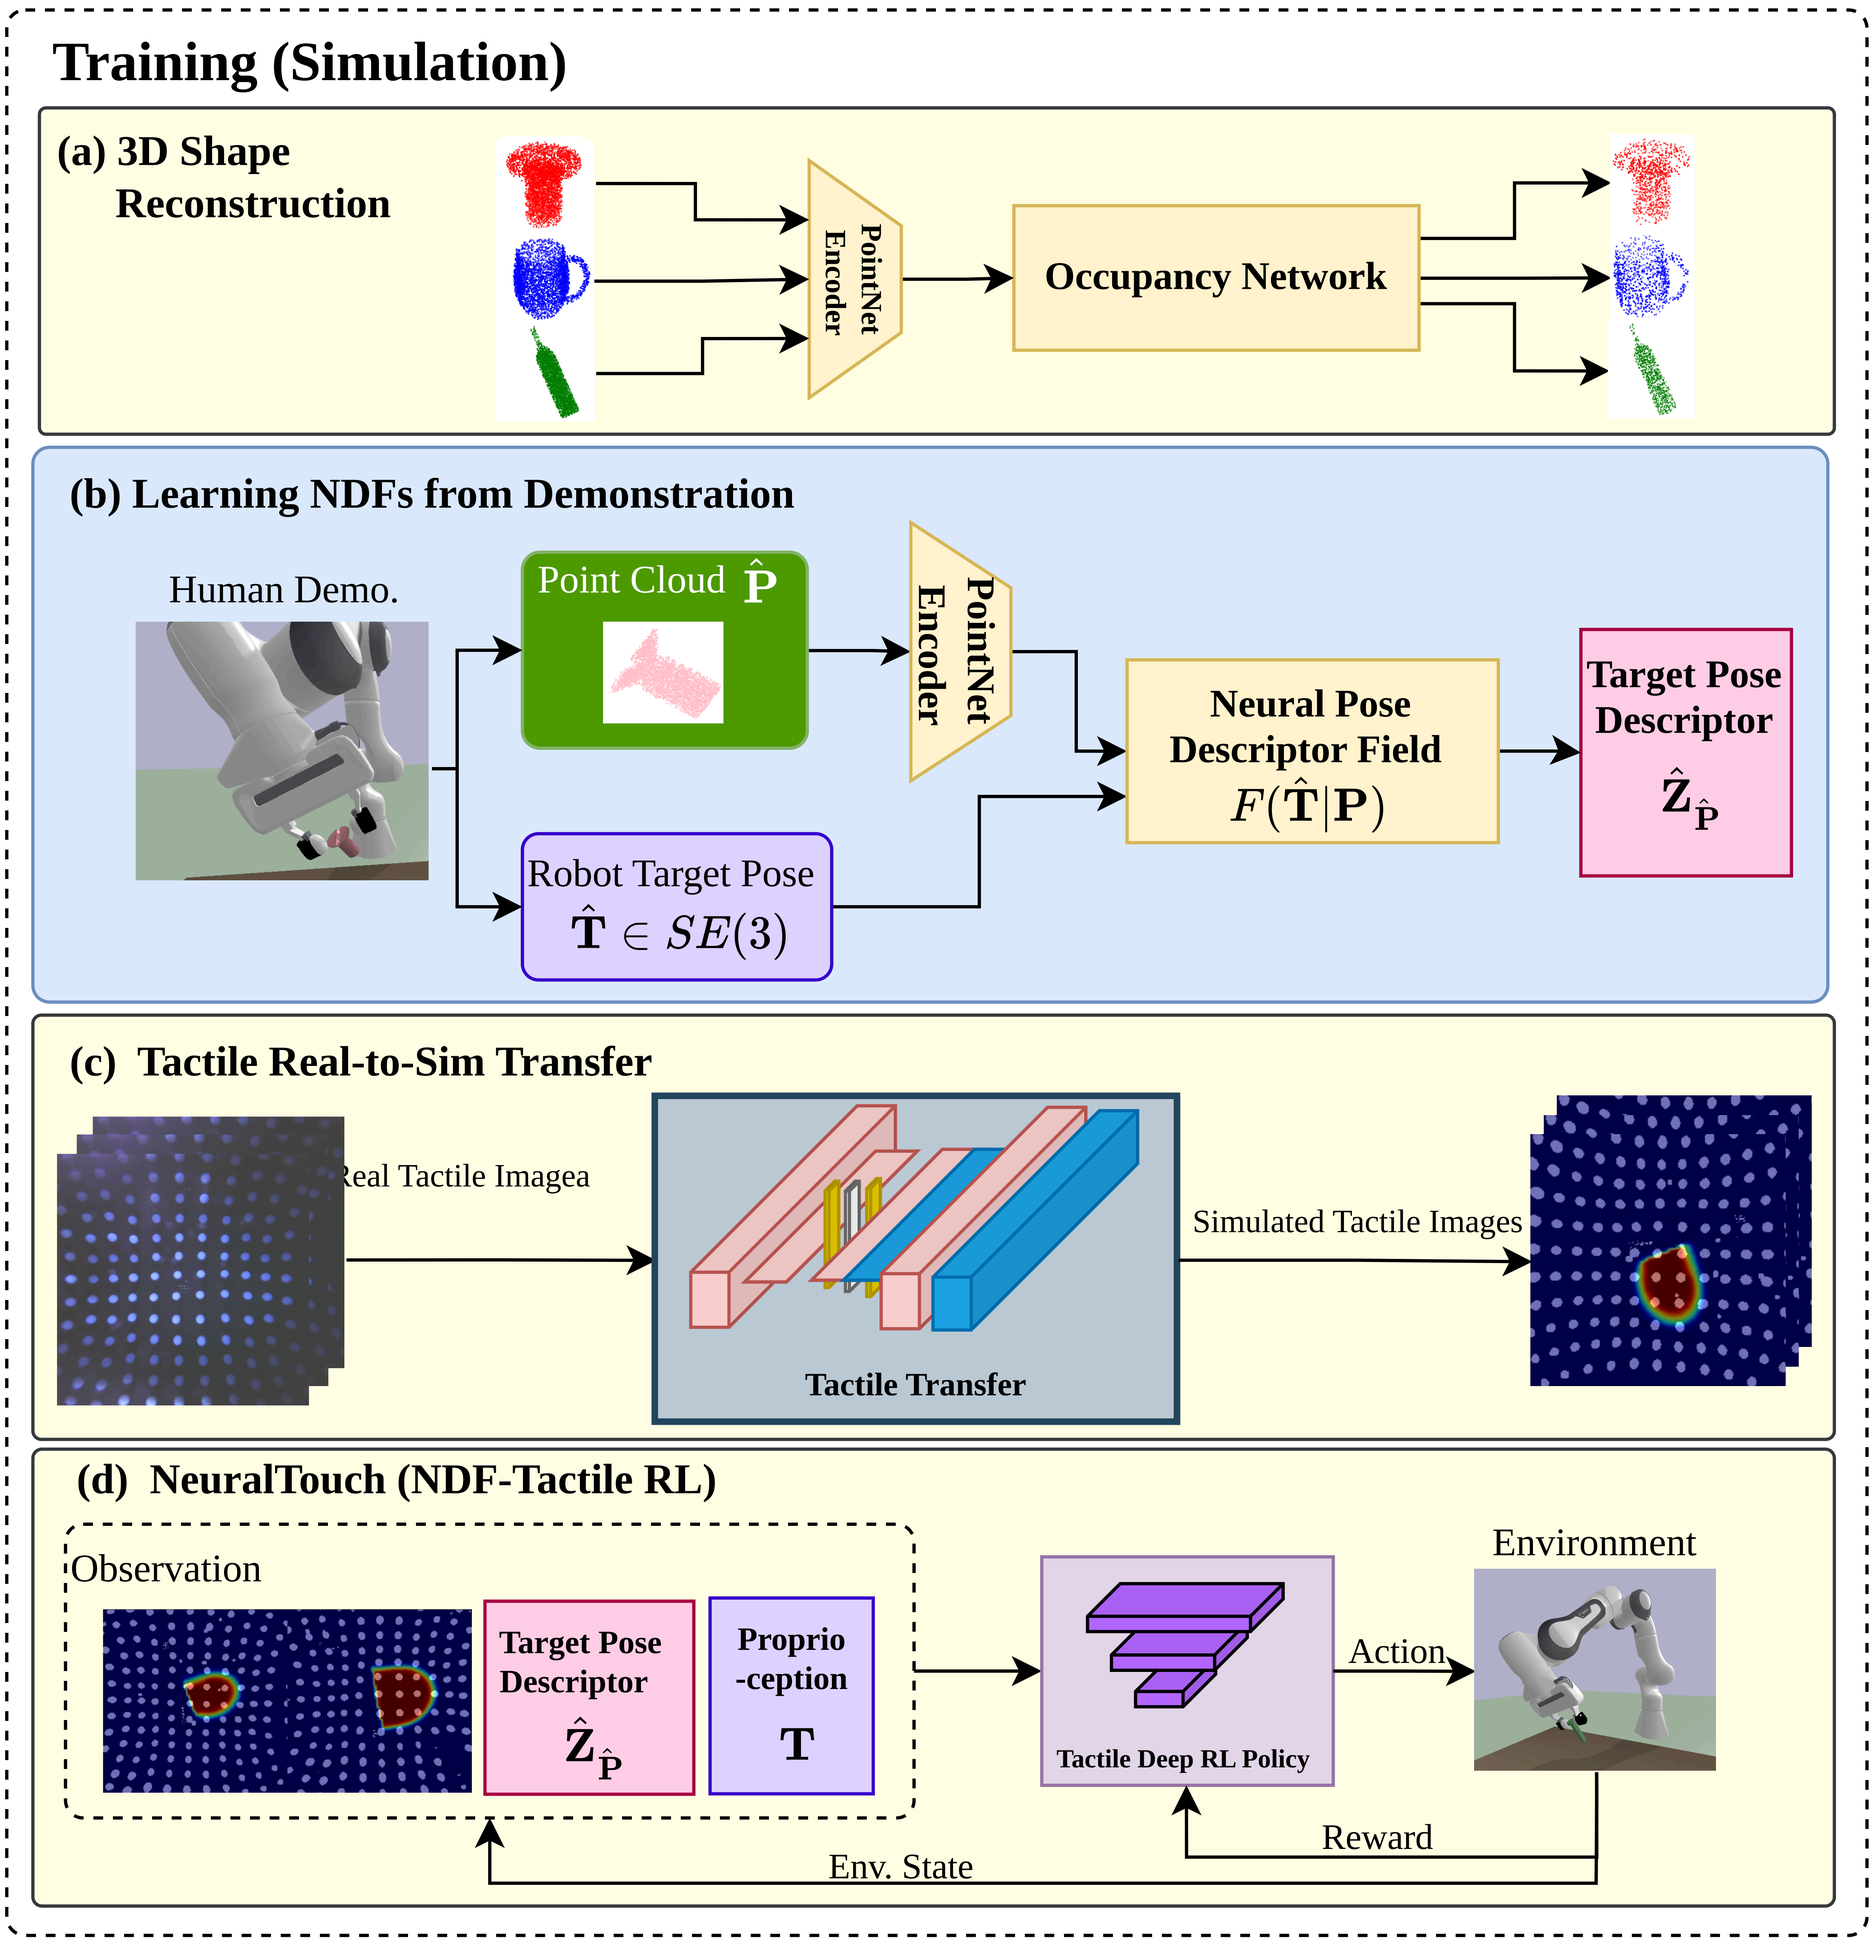
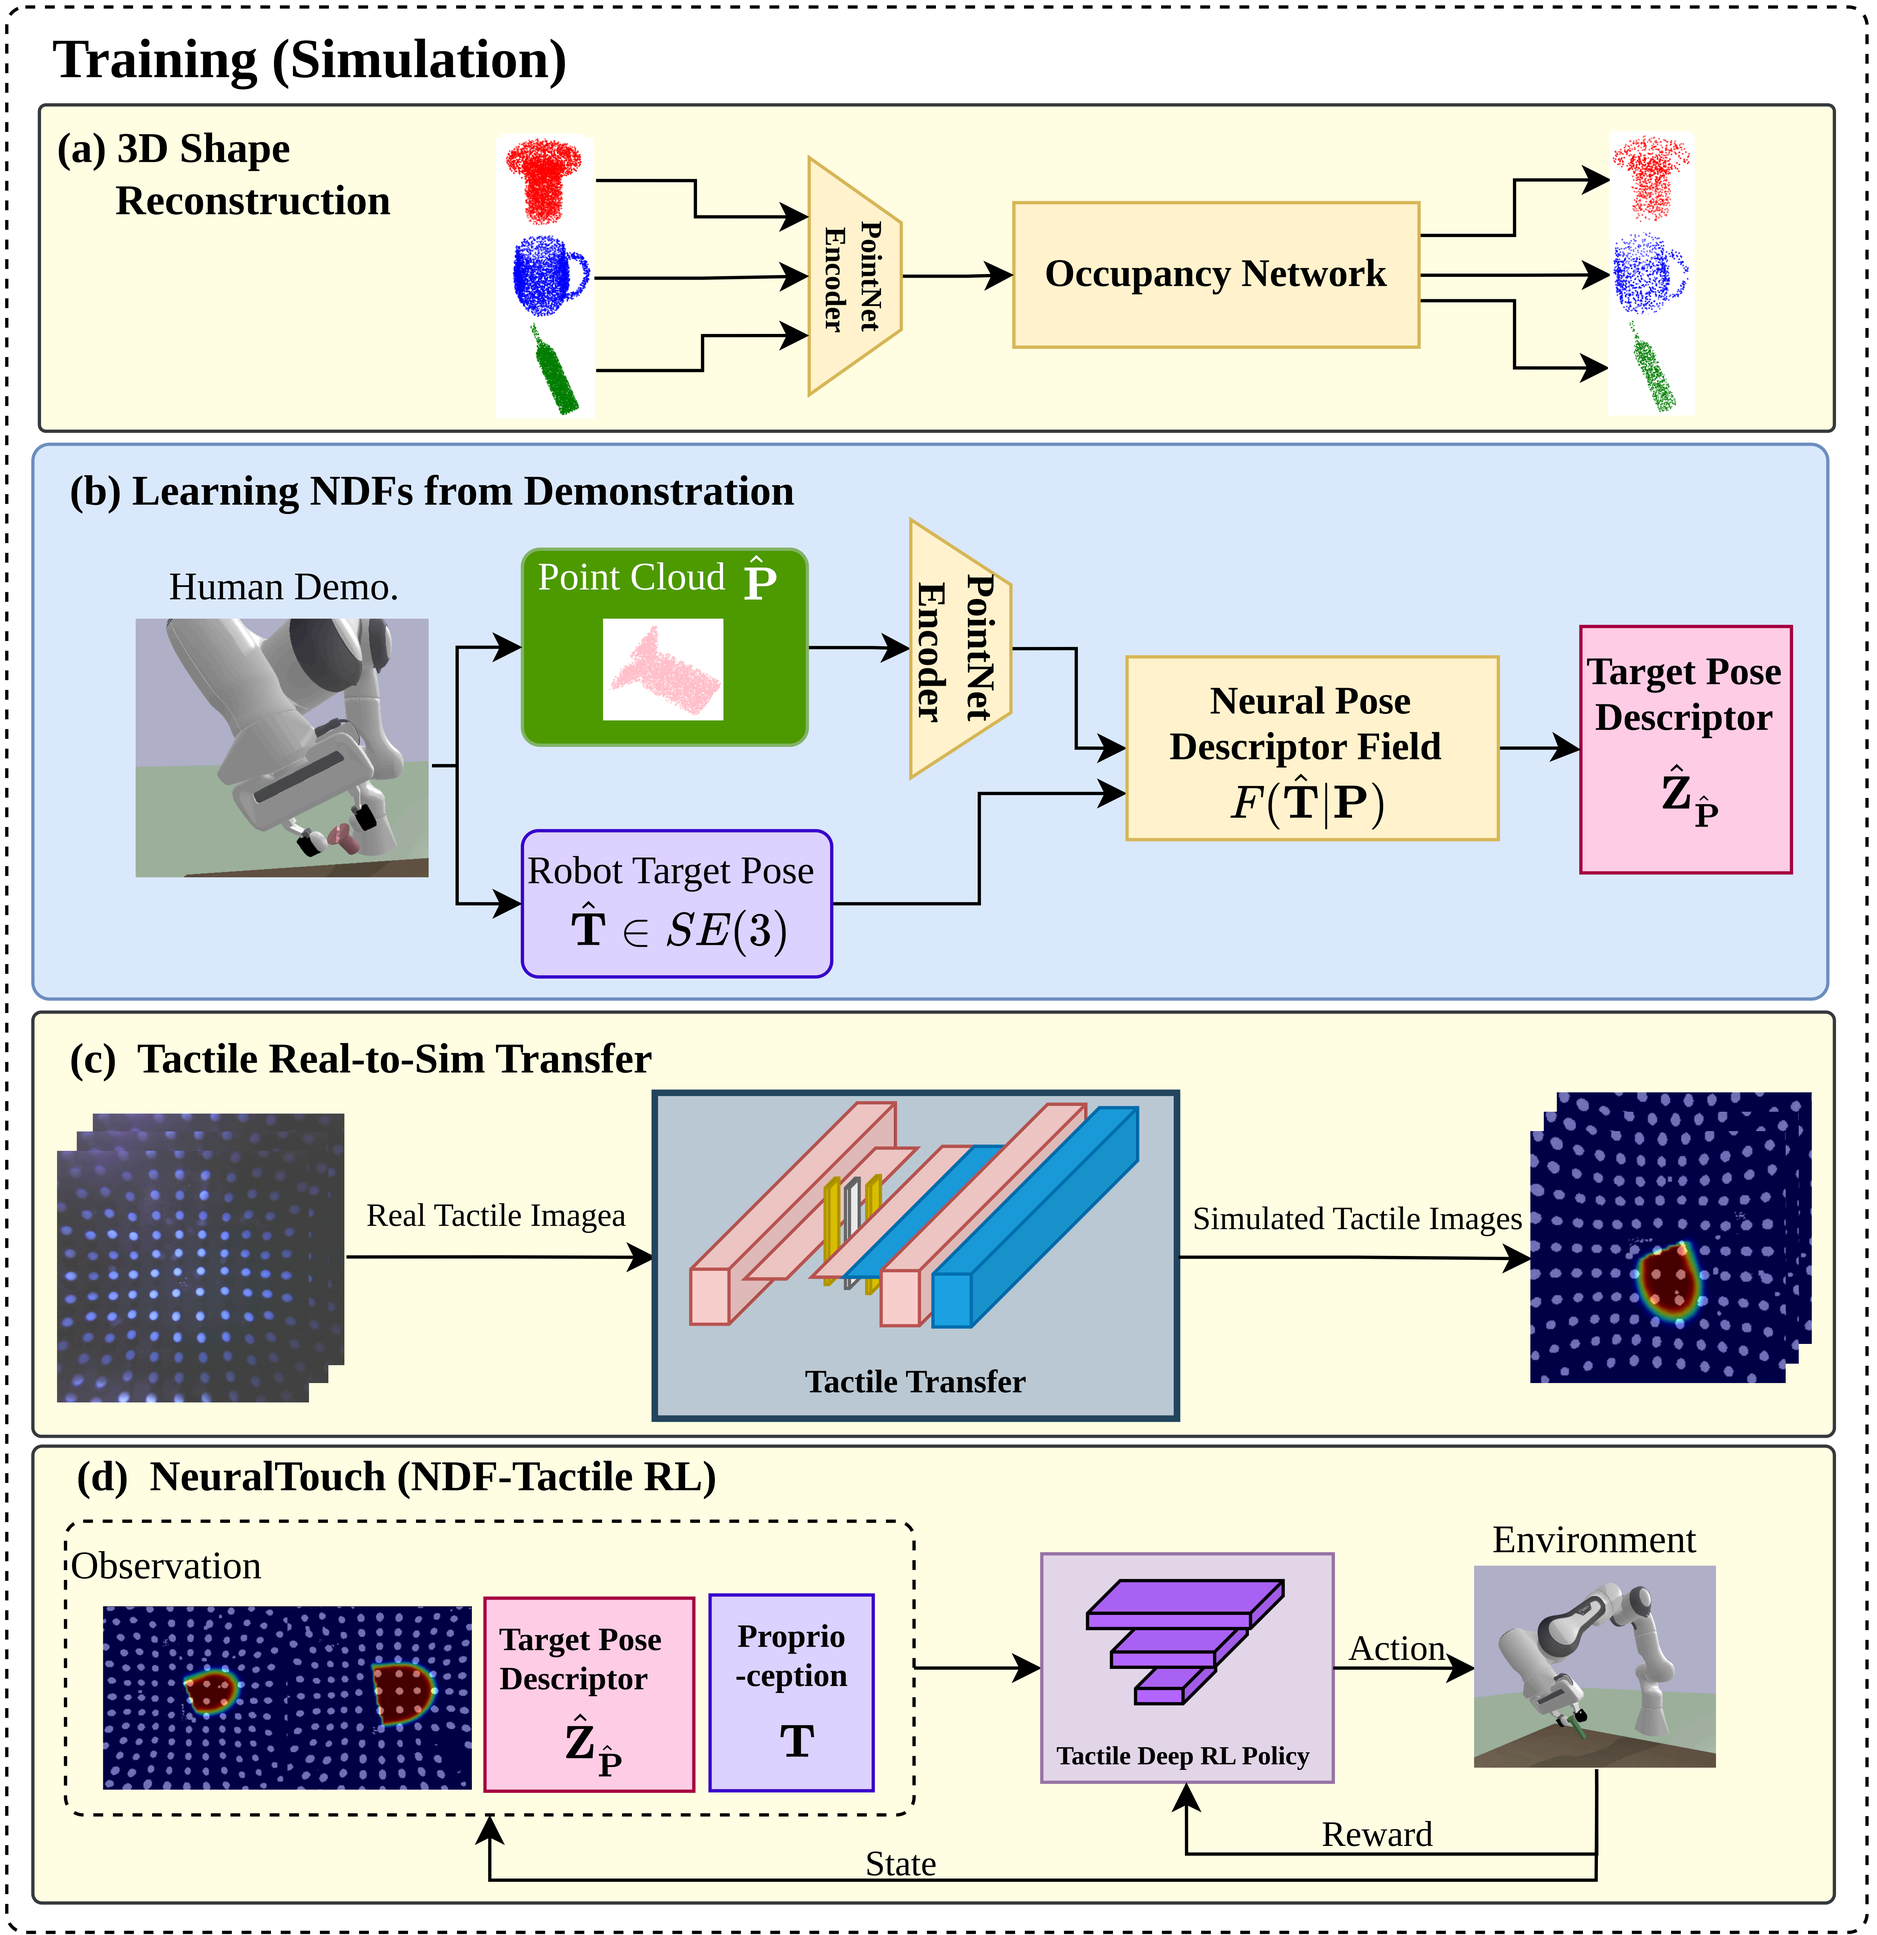
update

diff --git a/docs/index.html b/docs/index.html
@@ -486,7 +486,7 @@ unseen objects, executing manipulation tasks such as unplugging a bolt-like USB 
             Haoran Li, Christopher J Ford, Chenghua Lu, Yijiong Lin, Matteo Bianchi, Manuel G Catalano, Efi Psomopoulou, Nathan F Lepora
           </p>
           <p style="margin-bottom: 5px; font-size: 0.9em;">
-            <i>The International Journal of Robotics Research (IJRR)</i>
+            <i>The International Journal of Robotics Research (IJRR) 2024</i>
           </p>
           <p style="margin-bottom: 5px; font-size: 0.9em;">
             <a href="https://journals.sagepub.com/doi/pdf/10.1177/02783649251379516"><em>Paper, </em></a>
@@ -539,6 +539,39 @@ unseen objects, executing manipulation tasks such as unplugging a bolt-like USB 
           <p style="margin-bottom: 5px; font-size: 0.9em;">
             <a href="https://arxiv.org/abs/2207.10763"><em>Paper, </em></a>
             <a href="https://sites.google.com/view/tactile-gym-2-0-multi-sensor/home"><em>Project Page</em></a>
+          </p>
+        </div>
+
+
+        <div class="content has-text-justified">
+          <p style="margin-bottom: 5px;">
+            <strong>Neural descriptor fields: Se (3)-equivariant object representations for manipulation</strong>
+          </p>
+          <p style="margin-bottom: 5px; font-size: 0.9em;">
+            Anthony Simeonov; Yilun Du; Andrea Tagliasacchi; Joshua B. Tenenbaum; Alberto Rodriguez; Pulkit Agrawal; Vincent Sitzmann
+          </p>
+          <p style="margin-bottom: 5px; font-size: 0.9em;">
+            <i>International Conference on Robotics and Automation (ICRA) 2022</i>
+          </p>
+          <p style="margin-bottom: 5px; font-size: 0.9em;">
+            <a href="https://ieeexplore.ieee.org/abstract/document/9812146"><em>Paper, </em></a>
+            <a href="https://github.com/anthonysimeonov/ndf_robot"><em>Project Page</em></a>
+          </p>
+        </div>
+
+        <div class="content has-text-justified">
+          <p style="margin-bottom: 5px;">
+            <strong>Coarse-to-Fine Imitation Learning: Robot Manipulation from a Single Demonstration</strong>
+          </p>
+          <p style="margin-bottom: 5px; font-size: 0.9em;">
+            Edward Johns
+          </p>
+          <p style="margin-bottom: 5px; font-size: 0.9em;">
+            <i>International Conference on Robotics and Automation (ICRA) 2021</i>
+          </p>
+          <p style="margin-bottom: 5px; font-size: 0.9em;">
+            <a href="https://arxiv.org/abs/2105.06411"><em>Paper, </em></a>
+            <a href="https://www.robot-learning.uk/coarse-to-fine-imitation-learning"><em>Project Page</em></a>
           </p>
         </div>
 
